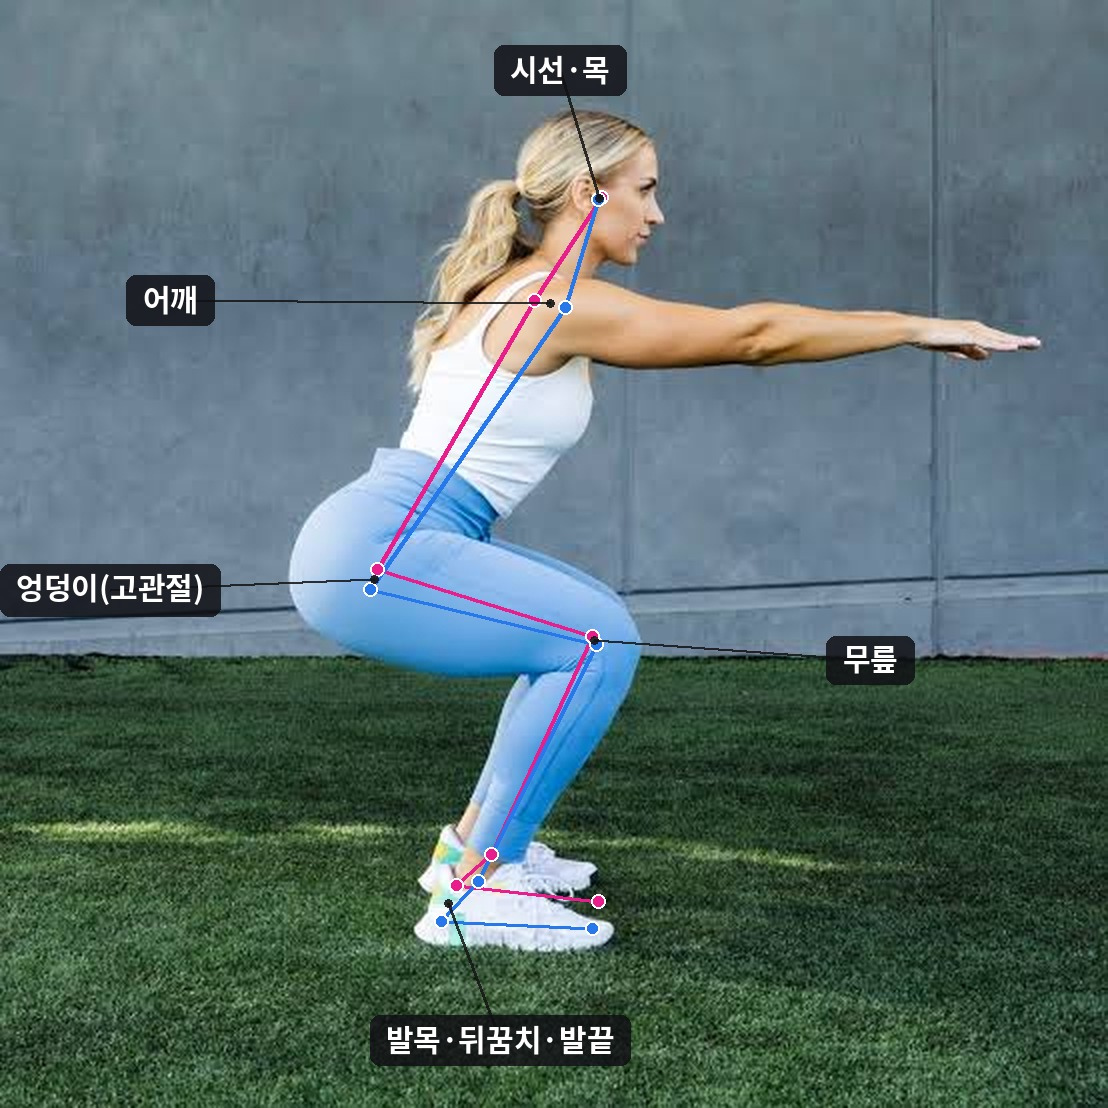
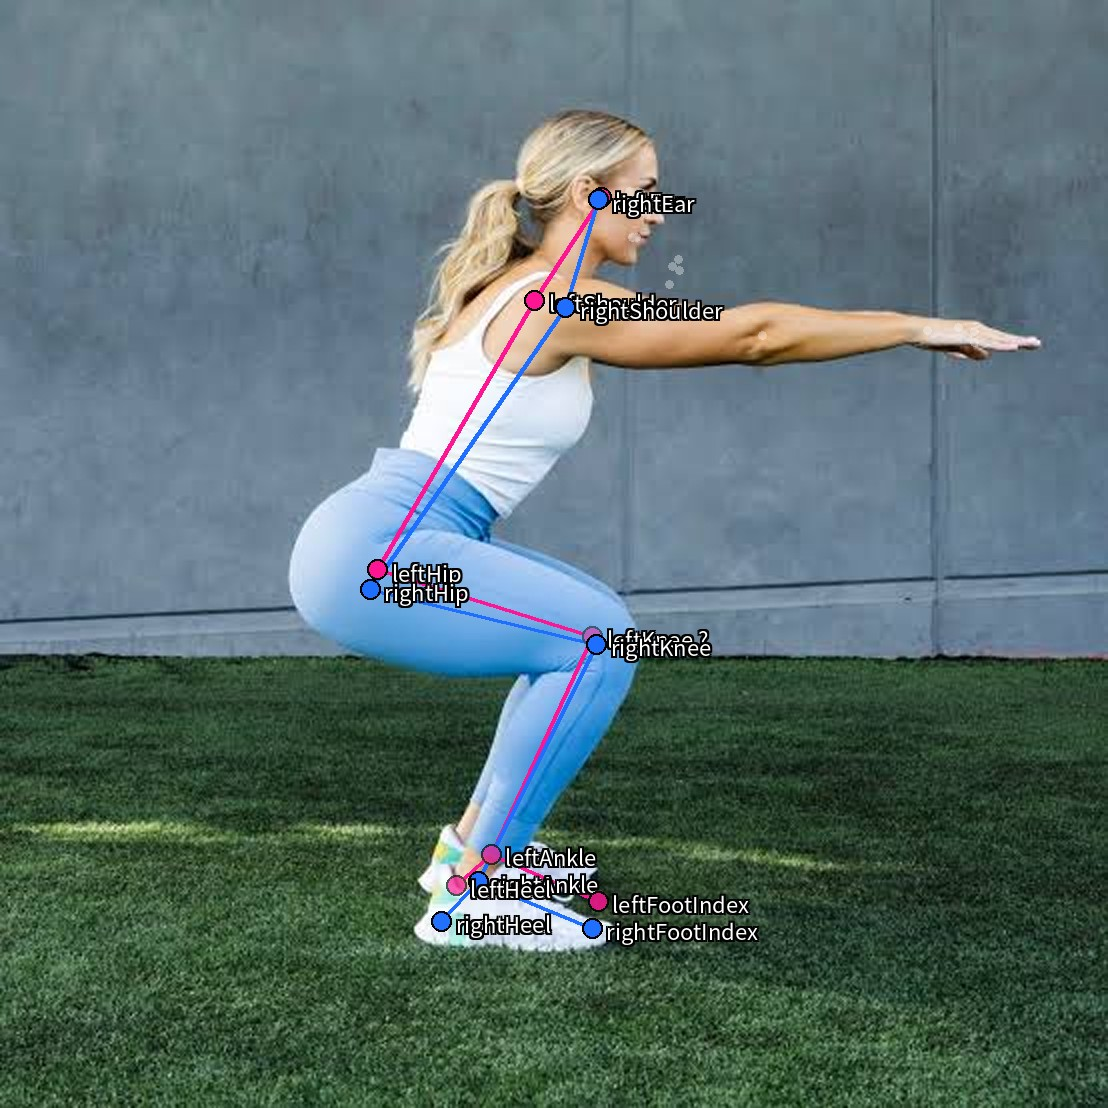
운동방법 모달 사진을 원본으로 복원하고 여백 없이 꽉 차게 표시
- 참고 사진을 사용자가 처음 올린 원본(영어 라벨 버전, 1108x1108)으로 되돌림
- 모달 좌측 사진 영역을 260px 고정폭 + 둥근 모서리 박스에서, 모달 폭의 46%를
  차지하며 위아래 여백 없이 꽉 차게(object-fit: cover) 채우는 방식으로 변경
- 모달 전체 padding을 0으로 낮추고 설명 영역(.guide-modal-text)에만 안쪽 여백을 줘서
  사진이 모달 테두리까지 그대로 붙게 함 (모바일도 동일하게 상단 bleed 사진으로 조정)

Claude-Session: https://claude.ai/code/session_011a1gBBJMNT6fyVD6ay8BWA

diff --git a/frontend/src/components/ExerciseGuideModal.jsx b/frontend/src/components/ExerciseGuideModal.jsx
@@ -7,10 +7,11 @@
  * 2단(사진/설명) 레이아웃이 필요해 className="exercise-guide-modal"로 폭만 오버라이드한다
  * (NutrientDetailModal.css가 같은 방식으로 .modal 기본값을 덮어쓰는 것과 동일한 패턴).
  *
- * 좌측 참고 사진은 이 세션에서 실제로 뽑은 스쿼트 랜드마크 시각화 사진(2026-09-02, 사용자가
- * 올린 사진을 640x640 JPEG로 축소해 assets에 넣었다 — lib/squatPose.js의 KEY_LANDMARKS와
- * 동일한 관절을 pink/blue로 표시한 것)을 쓴다. 원래 있던 임시 막대인간 SVG
- * 플레이스홀더(squat-guide-reference.svg)는 삭제하고 이걸로 교체했다.
+ * 좌측 참고 사진은 사용자가 직접 올린 스쿼트 랜드마크 시각화 사진(1108x1108 JPEG,
+ * lib/squatPose.js의 KEY_LANDMARKS와 동일한 관절을 pink/blue 점·라벨로 표시한 것)을 그대로
+ * 쓴다. 원래 있던 임시 막대인간 SVG 플레이스홀더(squat-guide-reference.svg)는 삭제하고
+ * 이걸로 교체했다. 사진은 모달 좌측에 여백 없이 꽉 차게(bleed, object-fit:cover) 채운다
+ * (ExerciseGuideModal.css 참고, 2026-09-02).
  *
  * 스텝 문구는 무릎 각도 등 AI 판정에 쓰이는 실제 임곗값(ai/app/pose/rules.py)과 다른
  * 숫자를 단정적으로 제시하지 않도록, "약 90도가 기준" 같은 구체적 판정 기준값 대신 일반적인

diff --git a/frontend/src/components/ExerciseGuideModal.css b/frontend/src/components/ExerciseGuideModal.css
@@ -1,30 +1,33 @@
-/* 운동방법 모달 — 공용 .modal(320px 고정폭)을 오버라이드해 2단(사진/설명) 레이아웃을 담는다. */
+/* 운동방법 모달 — 공용 .modal(320px 고정폭)을 오버라이드해 2단(사진/설명) 레이아웃을 담는다.
+   좌측 사진은 모달 여백 없이 꽉 차게(bleed) 채우고, 설명 영역에만 안쪽 여백을 준다. */
 .exercise-guide-modal {
   width: min(880px, 92vw);
   max-height: 86vh;
   overflow-y: auto;
-  padding: 28px 28px 28px;
+  padding: 0;
 }
 
 .guide-modal-body {
   display: flex;
-  gap: 28px;
+  align-items: stretch;
 }
 
 .guide-modal-photo {
   flex: none;
-  width: 260px;
+  width: 46%;
+  align-self: stretch;
 }
 .guide-modal-photo img {
   width: 100%;
-  border-radius: 14px;
+  height: 100%;
   display: block;
-  border: 1px solid #e5e3dd;
+  object-fit: cover;
 }
 
 .guide-modal-text {
   flex: 1;
   min-width: 0;
+  padding: 28px 28px 28px;
 }
 
 .guide-modal-eyebrow {
@@ -94,14 +97,16 @@
 @media (max-width: 768px) {
   .exercise-guide-modal {
     width: min(420px, calc(100vw - 24px));
-    padding: 22px 18px;
+    padding: 0;
   }
   .guide-modal-body {
     flex-direction: column;
   }
   .guide-modal-photo {
     width: 100%;
-    max-width: 220px;
-    margin: 0 auto;
+    height: 220px;
+  }
+  .guide-modal-text {
+    padding: 20px 18px;
   }
 }
